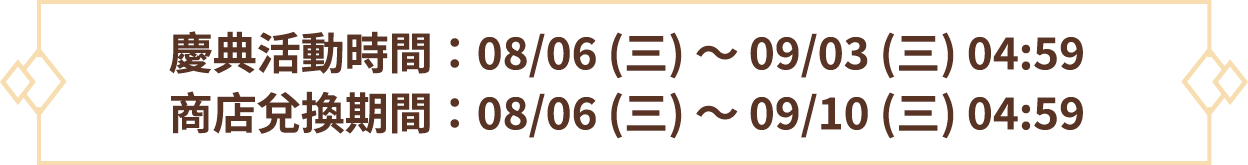
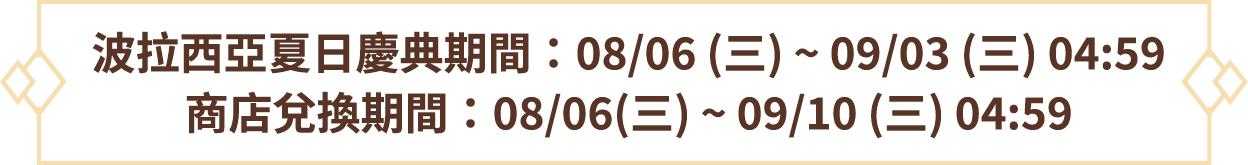
third version

Changed region(s): [[0.0625, 0.1818, 0.9375, 0.4848], [0.125, 0.5455, 0.875, 0.8485]]

diff --git a/css/pc_page.css b/css/pc_page.css
@@ -397,7 +397,7 @@ section.section--hero .area__content ._header ._title {
     background-repeat: no-repeat;
     background-size: contain;
     transform: translate3d(-3.5%, 0, 0);
-    margin-top: 50px;
+    margin-top: 35px;
     width: min(834.75px, 102vw);
     -webkit-text-size-adjust: none;
     height: auto
@@ -427,7 +427,7 @@ section.section--hero .area__content ._content {
     justify-content: center;
     display: inline-flex;
     flex-direction: column;
-    gap: 14px;
+    gap: 6px;
     width: 100%;
 }
 
@@ -444,6 +444,29 @@ section.section--hero .area__content ._content ._video-button {
 
 section.section--hero .area__content ._content ._video-button:hover {
     background-image: url(../img/pc/s1_btn_play_round_active.png);
+}
+
+section.section--hero .area__content ._content ._item {
+    background-image: url(../img/pc/p1_popup_close.png);
+    background-position: 50% 50%;
+    background-repeat: no-repeat;
+    background-size: contain;
+    width: 272.25px;
+    height: 258px;
+    animation: shine-benefit .7s ease infinite alternate;
+    content: "";
+    display: inline-block;
+    transform-origin: 0 0;
+    transition: opacity .3s cubic-bezier(.33, 1, .68, 1), transform .3s cubic-bezier(.33, 1, .68, 1);
+}
+
+section.section--hero .area__content ._content ._item:hover {
+    pointer-events: all;
+    transform: scale(1);
+    transition-duration: .4s;
+    background-image: url(../img/pc/p1_popup_open.png);
+    width: 452px;
+    height: 311px;
 }
 
 section.section--hero .area__content ._scroll {
@@ -487,9 +510,9 @@ section.section--store .area__content ._description {
     background-position: 50% 50%;
     background-repeat: no-repeat;
     background-size: contain;
-    height: 32px;
+    height: 74.5px;
     margin-top: 24px;
-    width: 629.5px;
+    width: 588.5px;
 }
 
 section.section--store .area__content ._period {
@@ -540,6 +563,28 @@ section.section--contest .area__content ._content {
     color: #0000 !important;
     font-size: 0 !important;
     -webkit-text-size-adjust: none
+}
+
+section.section--contest .area__content ._content a {
+    background-image: url(../img/pc/btn-twitch.png);
+    background-position: 50% 50%;
+    background-repeat: no-repeat;
+    background-size: contain;
+    height: 30px;
+    width: 92px;
+    display: block;
+}
+
+section.section--contest .area__content ._content .btn1 {
+    position: relative;
+    left: 40px;
+    top: 70px;
+}
+
+section.section--contest .area__content ._content .btn2 {
+    position: relative;
+    left: 425px;
+    top: 40px;
 }
 
 .area,

diff --git a/css/mb_page.css b/css/mb_page.css
@@ -95,11 +95,22 @@
 
     section.section--hero .area__content ._content {
         justify-content: center;
+        flex-direction: row-reverse;
     }
 
     section.section--hero .area__content ._content ._video-button {
         width: 111.5px;
         height: 115.5px;
+    }
+
+    section.section--hero .area__content ._content ._item {
+        width: 136.125px;
+        height: 129px;
+    }
+
+    section.section--hero .area__content ._content ._item:hover {
+        width: 226px;
+        height: 155.5px;
     }
 
     section.section--store .area__content ._header {
@@ -182,5 +193,15 @@
         height: 436.875px;
         margin-top: 30px;
         width: 371.625px;
+    }
+
+    section.section--contest .area__content ._content .btn1 {
+        left: 5px;
+        top: 115px;
+    }
+
+    section.section--contest .area__content ._content .btn2 {
+        left: 275px;
+        top: 85px;
     }
 }

diff --git a/index.html b/index.html
@@ -382,7 +382,20 @@
                         <div class="_description -fix"></div>
                         <div class="_period -fix"></div>
                       </div>
-                      <div class="_content"></div>
+                      <div class="_content">
+                        <a
+                          href="https://www.twitch.tv/z60411"
+                          rel="noopener noreferrer"
+                          target="_blank"
+                          class="btn1"
+                        ></a>
+                        <a
+                          href="https://www.twitch.tv/nein1203"
+                          rel="noopener noreferrer"
+                          target="_blank"
+                          class="btn2"
+                        ></a>
+                      </div>
                     </div>
                   </div>
                 </section>
